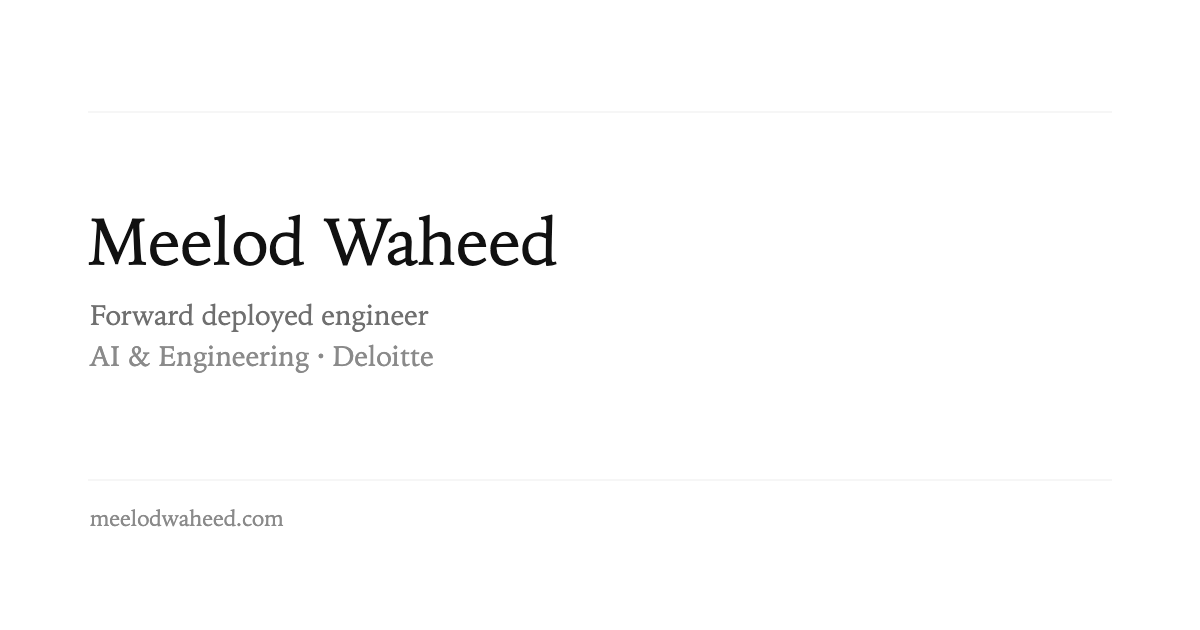
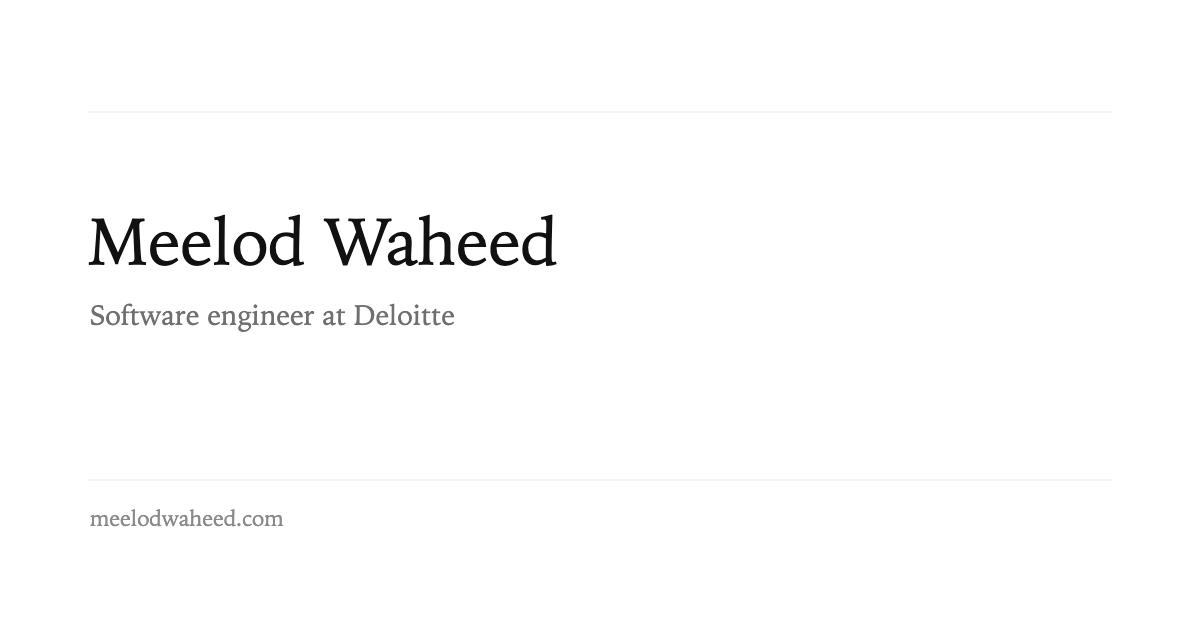
Update Deloitte title to software engineer
Change the homepage bio, page titles, descriptions, structured data,
and social card to say software engineer at Deloitte.

Changed region(s): [[0.0617, 0.4825, 0.37, 0.6032]]

diff --git a/index.html b/index.html
@@ -4,26 +4,26 @@
 <head>
   <meta charset="utf-8">
   <meta name="viewport" content="width=device-width, initial-scale=1">
-  <title>Meelod Waheed — Forward Deployed Engineer</title>
-  <meta name="description" content="Meelod Waheed, forward deployed engineer on Deloitte&#x27;s AI &amp; Engineering team. Past work includes a startup accepted into DIU and tools at Soma Capital.">
+  <title>Meelod Waheed — Software Engineer</title>
+  <meta name="description" content="Meelod Waheed, software engineer at Deloitte. Past work includes a startup accepted into DIU and tools at Soma Capital.">
   <link rel="canonical" href="https://meelodwaheed.com/">
   <link rel="icon" type="image/svg+xml" href="/favicon.svg">
 
   <meta property="og:type" content="website">
-  <meta property="og:title" content="Meelod Waheed — Forward Deployed Engineer">
-  <meta property="og:description" content="Meelod Waheed, forward deployed engineer on Deloitte&#x27;s AI &amp; Engineering team. Past work includes a startup accepted into DIU and tools at Soma Capital.">
+  <meta property="og:title" content="Meelod Waheed — Software Engineer">
+  <meta property="og:description" content="Meelod Waheed, software engineer at Deloitte. Past work includes a startup accepted into DIU and tools at Soma Capital.">
   <meta property="og:url" content="https://meelodwaheed.com/">
   <meta property="og:image" content="https://meelodwaheed.com/og.png">
   <meta property="og:site_name" content="Meelod Waheed">
   <meta property="og:locale" content="en_US">
   <meta property="og:image:width" content="1200">
   <meta property="og:image:height" content="630">
-  <meta property="og:image:alt" content="Meelod Waheed — Forward deployed engineer">
+  <meta property="og:image:alt" content="Meelod Waheed — Software engineer">
   <meta name="twitter:card" content="summary_large_image">
-  <meta name="twitter:title" content="Meelod Waheed — Forward Deployed Engineer">
-  <meta name="twitter:description" content="Meelod Waheed, forward deployed engineer on Deloitte&#x27;s AI &amp; Engineering team. Past work includes a startup accepted into DIU and tools at Soma Capital.">
+  <meta name="twitter:title" content="Meelod Waheed — Software Engineer">
+  <meta name="twitter:description" content="Meelod Waheed, software engineer at Deloitte. Past work includes a startup accepted into DIU and tools at Soma Capital.">
   <meta name="twitter:image" content="https://meelodwaheed.com/og.png">
-  <meta name="twitter:image:alt" content="Meelod Waheed — Forward deployed engineer">
+  <meta name="twitter:image:alt" content="Meelod Waheed — Software engineer">
 
   <link rel="stylesheet" href="/assets/css/style.css?v=0f7108dbdfa5">
   <script type="application/ld+json">
@@ -56,8 +56,8 @@
       "@id": "https://meelodwaheed.com/#person",
       "name": "Meelod Waheed",
       "url": "https://meelodwaheed.com/",
-      "jobTitle": "Forward Deployed Engineer",
-      "description": "Forward deployed engineer on Deloitte's AI & Engineering team. Previously built sensor fusion systems at a startup accepted into DIU, and tools at Soma Capital.",
+      "jobTitle": "Software Engineer",
+      "description": "Software engineer at Deloitte. Previously built sensor fusion systems at a startup accepted into DIU, and tools at Soma Capital.",
       "worksFor": {
         "@type": "Organization",
         "name": "Deloitte"
@@ -89,7 +89,7 @@
     </header>
 
     <main id="main">
-      <p>I'm a forward deployed engineer on <a href="https://www.deloitte.com/us/en/services/consulting/services/engineering-ai-data.html">Deloitte's AI &amp; Engineering</a> team. Before that, I built sensor fusion
+      <p>I'm a software engineer at <a href="https://www.deloitte.com/us/en/services/consulting/services/engineering-ai-data.html">Deloitte</a>. Before that, I built sensor fusion
         systems at a startup accepted into the <a href="https://www.diu.mil/">Defense Innovation Unit (DIU)</a>.</p>
 
       <p>I've also built tools at <a href="https://somacap.com/">Soma Capital</a>, trading systems at

diff --git a/curations/index.html b/curations/index.html
@@ -16,12 +16,12 @@
   <meta property="og:image" content="https://meelodwaheed.com/og.png">
   <meta property="og:image:width" content="1200">
   <meta property="og:image:height" content="630">
-  <meta property="og:image:alt" content="Meelod Waheed — Forward deployed engineer">
+  <meta property="og:image:alt" content="Meelod Waheed — Software engineer">
   <meta name="twitter:card" content="summary_large_image">
   <meta name="twitter:title" content="Curations — Meelod Waheed">
   <meta name="twitter:description" content="Art by Meelod Waheed, plus collections of art pieces, architecture, interiors, and landscapes with location captions.">
   <meta name="twitter:image" content="https://meelodwaheed.com/og.png">
-  <meta name="twitter:image:alt" content="Meelod Waheed — Forward deployed engineer">
+  <meta name="twitter:image:alt" content="Meelod Waheed — Software engineer">
   <link rel="stylesheet" href="/assets/css/style.css?v=0f7108dbdfa5">
   <script type="application/ld+json">{
   "@context": "https://schema.org",

diff --git a/projects/index.html b/projects/index.html
@@ -18,12 +18,12 @@
   <meta property="og:locale" content="en_US">
   <meta property="og:image:width" content="1200">
   <meta property="og:image:height" content="630">
-  <meta property="og:image:alt" content="Meelod Waheed — Forward deployed engineer">
+  <meta property="og:image:alt" content="Meelod Waheed — Software engineer">
   <meta name="twitter:card" content="summary_large_image">
   <meta name="twitter:title" content="Projects — Meelod Waheed">
   <meta name="twitter:description" content="Software, simulations, games, and websites by Meelod Waheed, including NASA aeronautics simulations, arXiv Trend Radar, and Drum Beat VR.">
   <meta name="twitter:image" content="https://meelodwaheed.com/og.png">
-  <meta name="twitter:image:alt" content="Meelod Waheed — Forward deployed engineer">
+  <meta name="twitter:image:alt" content="Meelod Waheed — Software engineer">
 
   <link rel="stylesheet" href="/assets/css/style.css?v=0f7108dbdfa5">
   <script type="application/ld+json">

diff --git a/features/index.html b/features/index.html
@@ -18,12 +18,12 @@
   <meta property="og:locale" content="en_US">
   <meta property="og:image:width" content="1200">
   <meta property="og:image:height" content="630">
-  <meta property="og:image:alt" content="Meelod Waheed — Forward deployed engineer">
+  <meta property="og:image:alt" content="Meelod Waheed — Software engineer">
   <meta name="twitter:card" content="summary_large_image">
   <meta name="twitter:title" content="Features — Meelod Waheed">
   <meta name="twitter:description" content="Interviews and features with Meelod Waheed on education access, college transfers, scholarships, and the immigrant experience.">
   <meta name="twitter:image" content="https://meelodwaheed.com/og.png">
-  <meta name="twitter:image:alt" content="Meelod Waheed — Forward deployed engineer">
+  <meta name="twitter:image:alt" content="Meelod Waheed — Software engineer">
 
   <link rel="stylesheet" href="/assets/css/style.css?v=0f7108dbdfa5">
   <script type="application/ld+json">

diff --git a/curations/architecture/index.html b/curations/architecture/index.html
@@ -16,12 +16,12 @@
   <meta property="og:image" content="https://meelodwaheed.com/og.png">
   <meta property="og:image:width" content="1200">
   <meta property="og:image:height" content="630">
-  <meta property="og:image:alt" content="Meelod Waheed — Forward deployed engineer">
+  <meta property="og:image:alt" content="Meelod Waheed — Software engineer">
   <meta name="twitter:card" content="summary_large_image">
   <meta name="twitter:title" content="Architecture — Meelod Waheed">
   <meta name="twitter:description" content="Arches, ceilings, courtyards, and the spaces between them.">
   <meta name="twitter:image" content="https://meelodwaheed.com/og.png">
-  <meta name="twitter:image:alt" content="Meelod Waheed — Forward deployed engineer">
+  <meta name="twitter:image:alt" content="Meelod Waheed — Software engineer">
   <link rel="stylesheet" href="/assets/css/style.css?v=0f7108dbdfa5">
   <script type="application/ld+json">{
   "@context": "https://schema.org",

diff --git a/curations/streets-places/index.html b/curations/streets-places/index.html
@@ -16,12 +16,12 @@
   <meta property="og:image" content="https://meelodwaheed.com/og.png">
   <meta property="og:image:width" content="1200">
   <meta property="og:image:height" content="630">
-  <meta property="og:image:alt" content="Meelod Waheed — Forward deployed engineer">
+  <meta property="og:image:alt" content="Meelod Waheed — Software engineer">
   <meta name="twitter:card" content="summary_large_image">
   <meta name="twitter:title" content="Streets &amp; Places — Meelod Waheed">
   <meta name="twitter:description" content="Street scenes and small details from my travels.">
   <meta name="twitter:image" content="https://meelodwaheed.com/og.png">
-  <meta name="twitter:image:alt" content="Meelod Waheed — Forward deployed engineer">
+  <meta name="twitter:image:alt" content="Meelod Waheed — Software engineer">
   <link rel="stylesheet" href="/assets/css/style.css?v=0f7108dbdfa5">
   <script type="application/ld+json">{
   "@context": "https://schema.org",

diff --git a/curations/art-pieces/index.html b/curations/art-pieces/index.html
@@ -16,12 +16,12 @@
   <meta property="og:image" content="https://meelodwaheed.com/og.png">
   <meta property="og:image:width" content="1200">
   <meta property="og:image:height" content="630">
-  <meta property="og:image:alt" content="Meelod Waheed — Forward deployed engineer">
+  <meta property="og:image:alt" content="Meelod Waheed — Software engineer">
   <meta name="twitter:card" content="summary_large_image">
   <meta name="twitter:title" content="Art Pieces — Meelod Waheed">
   <meta name="twitter:description" content="Paintings and sculpture I&#39;ve stopped to look at.">
   <meta name="twitter:image" content="https://meelodwaheed.com/og.png">
-  <meta name="twitter:image:alt" content="Meelod Waheed — Forward deployed engineer">
+  <meta name="twitter:image:alt" content="Meelod Waheed — Software engineer">
   <link rel="stylesheet" href="/assets/css/style.css?v=0f7108dbdfa5">
   <script type="application/ld+json">{
   "@context": "https://schema.org",

diff --git a/curations/nature/index.html b/curations/nature/index.html
@@ -16,12 +16,12 @@
   <meta property="og:image" content="https://meelodwaheed.com/og.png">
   <meta property="og:image:width" content="1200">
   <meta property="og:image:height" content="630">
-  <meta property="og:image:alt" content="Meelod Waheed — Forward deployed engineer">
+  <meta property="og:image:alt" content="Meelod Waheed — Software engineer">
   <meta name="twitter:card" content="summary_large_image">
   <meta name="twitter:title" content="Nature &amp; Landscapes — Meelod Waheed">
   <meta name="twitter:description" content="Water, trees, and views along the way.">
   <meta name="twitter:image" content="https://meelodwaheed.com/og.png">
-  <meta name="twitter:image:alt" content="Meelod Waheed — Forward deployed engineer">
+  <meta name="twitter:image:alt" content="Meelod Waheed — Software engineer">
   <link rel="stylesheet" href="/assets/css/style.css?v=0f7108dbdfa5">
   <script type="application/ld+json">{
   "@context": "https://schema.org",

diff --git a/curations/interiors/index.html b/curations/interiors/index.html
@@ -16,12 +16,12 @@
   <meta property="og:image" content="https://meelodwaheed.com/og.png">
   <meta property="og:image:width" content="1200">
   <meta property="og:image:height" content="630">
-  <meta property="og:image:alt" content="Meelod Waheed — Forward deployed engineer">
+  <meta property="og:image:alt" content="Meelod Waheed — Software engineer">
   <meta name="twitter:card" content="summary_large_image">
   <meta name="twitter:title" content="Interiors — Meelod Waheed">
   <meta name="twitter:description" content="Bookshops, cafés, and quiet corners.">
   <meta name="twitter:image" content="https://meelodwaheed.com/og.png">
-  <meta name="twitter:image:alt" content="Meelod Waheed — Forward deployed engineer">
+  <meta name="twitter:image:alt" content="Meelod Waheed — Software engineer">
   <link rel="stylesheet" href="/assets/css/style.css?v=0f7108dbdfa5">
   <script type="application/ld+json">{
   "@context": "https://schema.org",

diff --git a/curations/my-art/index.html b/curations/my-art/index.html
@@ -16,12 +16,12 @@
   <meta property="og:image" content="https://meelodwaheed.com/og.png">
   <meta property="og:image:width" content="1200">
   <meta property="og:image:height" content="630">
-  <meta property="og:image:alt" content="Meelod Waheed — Forward deployed engineer">
+  <meta property="og:image:alt" content="Meelod Waheed — Software engineer">
   <meta name="twitter:card" content="summary_large_image">
   <meta name="twitter:title" content="My Art — Meelod Waheed">
   <meta name="twitter:description" content="A few things I&#39;ve made.">
   <meta name="twitter:image" content="https://meelodwaheed.com/og.png">
-  <meta name="twitter:image:alt" content="Meelod Waheed — Forward deployed engineer">
+  <meta name="twitter:image:alt" content="Meelod Waheed — Software engineer">
   <link rel="stylesheet" href="/assets/css/style.css?v=0f7108dbdfa5">
   <script type="application/ld+json">{
   "@context": "https://schema.org",
